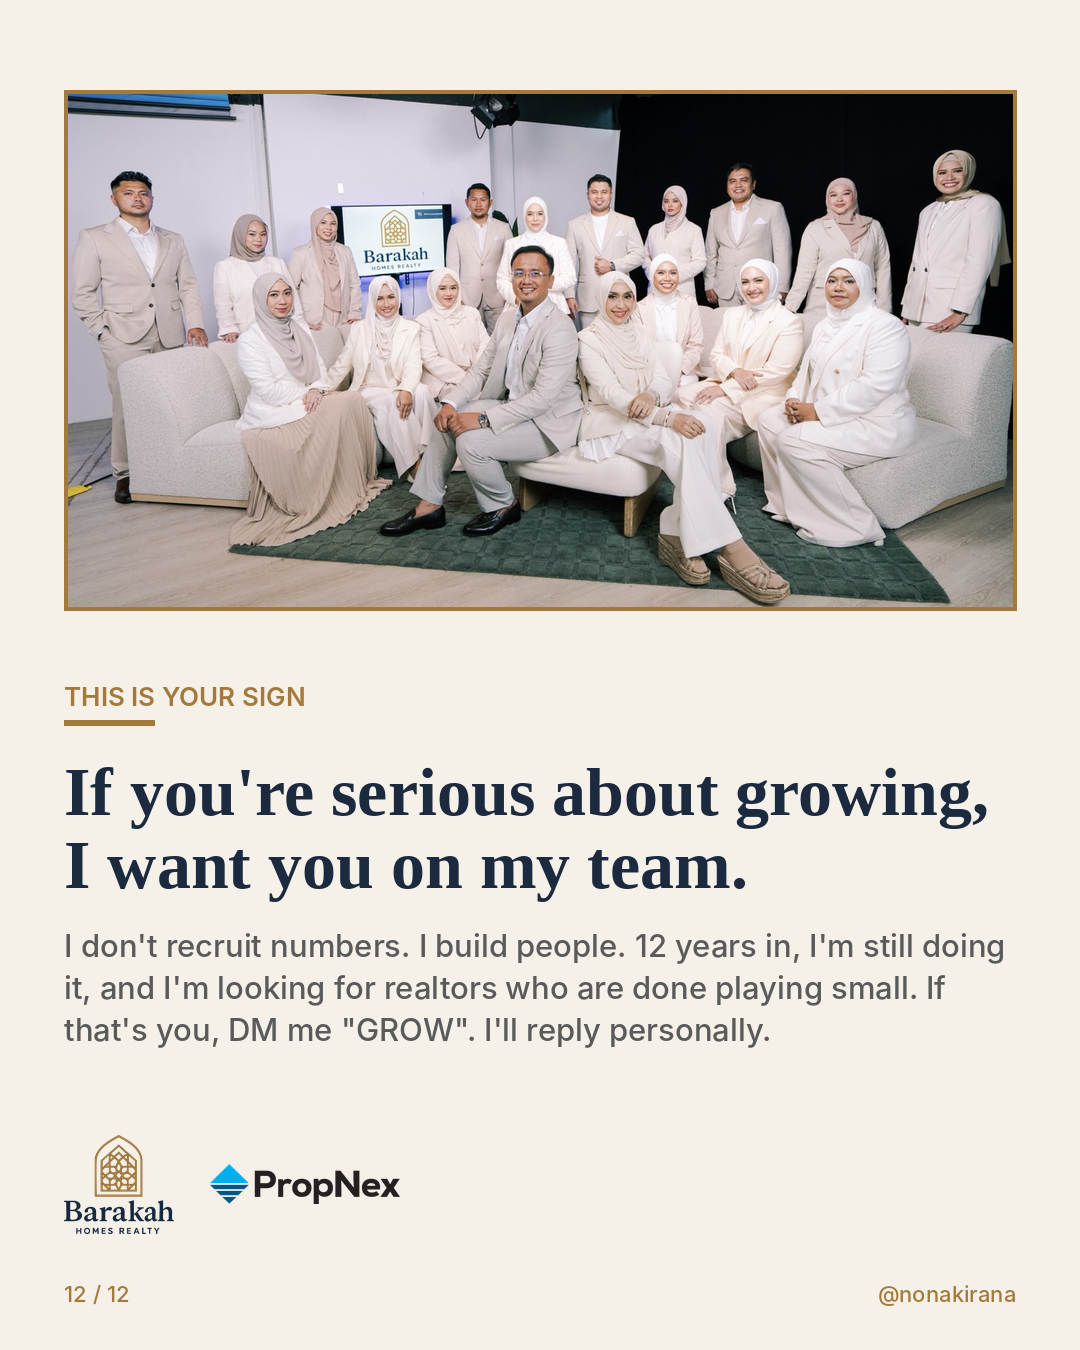
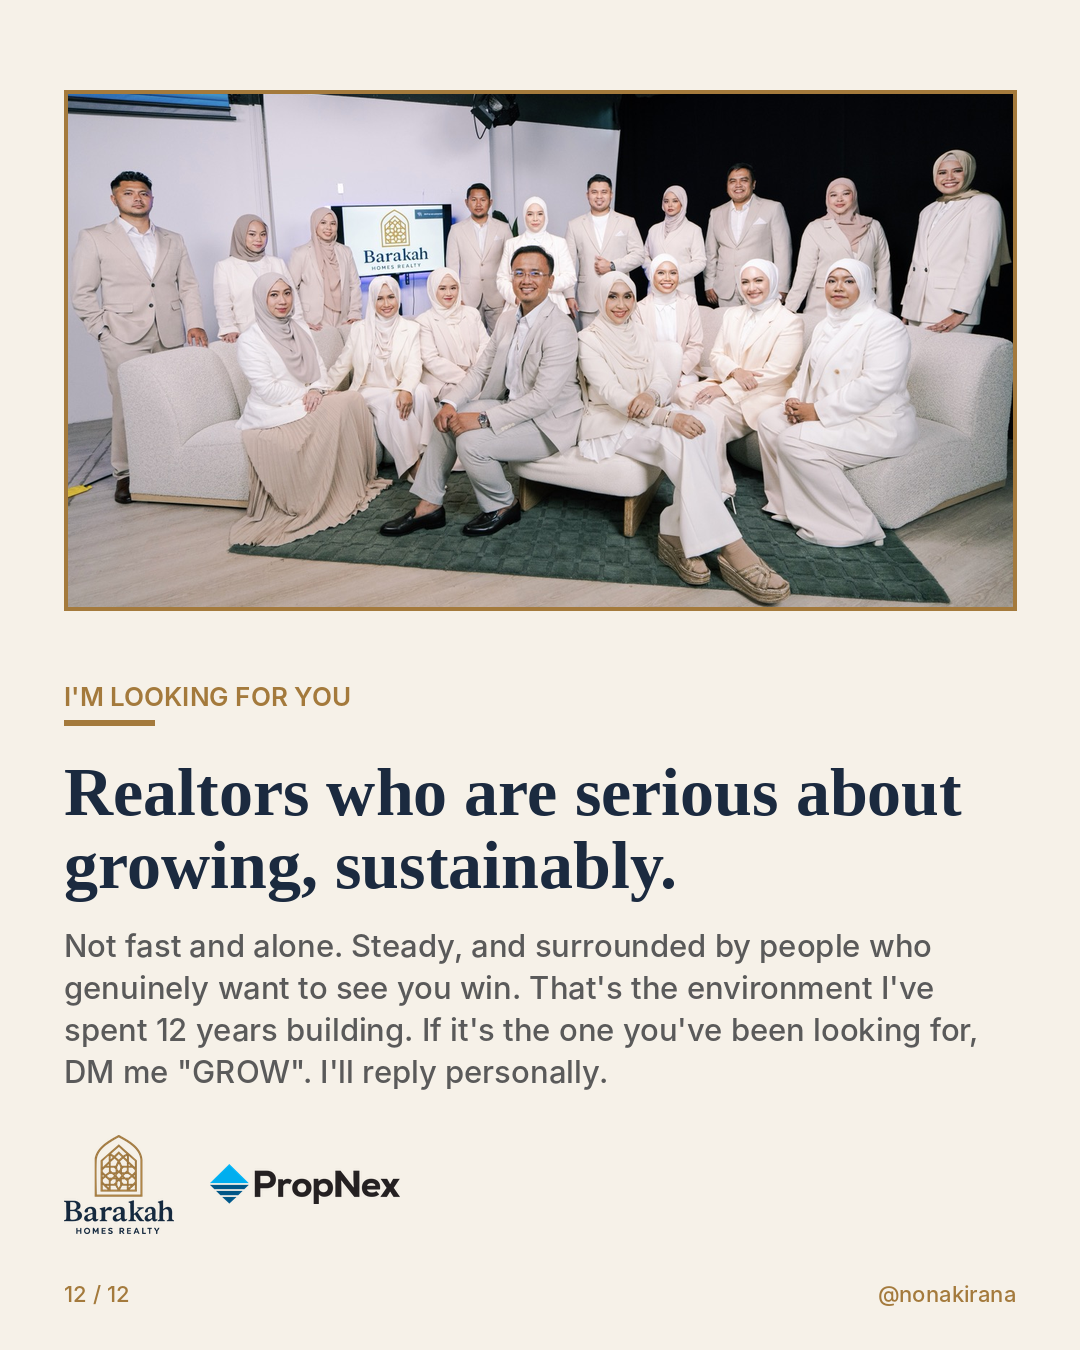
Closing slide: realtors serious about growing sustainably with supportive people
Claude-Session: https://claude.ai/code/session_016kRuLdfEYNqBubZ7ARvdxi

Changed region(s): [[0.0611, 0.56, 0.9472, 0.8089], [0.0611, 0.4978, 0.3361, 0.5289]]

diff --git a/recruitment-carousel/make_carousel.py b/recruitment-carousel/make_carousel.py
@@ -262,11 +262,11 @@ ph = cover_crop(load("barakah-team.jpg"), W - 128, 520, (0.5, 0.5))
 img.paste(ph, (64, 90))
 d.rectangle((64, 90, W - 64, 610), outline=GOLD, width=4)
 y = 680
-d.text((64, y), "THIS IS YOUR SIGN", font=font(SANS_B, 26), fill=GOLD); y += 40
+d.text((64, y), "I'M LOOKING FOR YOU", font=font(SANS_B, 26), fill=GOLD); y += 40
 gold_rule(d, 64, y); y += 34
-y = draw_par(d, "If you're serious about growing, I want you on my team.", font(SERIF, 68), 64, y, W - 128, NAVY, lh=1.08)
+y = draw_par(d, "Realtors who are serious about growing, sustainably.", font(SERIF, 68), 64, y, W - 128, NAVY, lh=1.08)
 y += 26
-y = draw_par(d, "I don't recruit numbers. I build people. 12 years in, I'm still doing it, and I'm looking for realtors who are done playing small. If that's you, DM me \"GROW\". I'll reply personally.",
+y = draw_par(d, "Not fast and alone. Steady, and surrounded by people who genuinely want to see you win. That's the environment I've spent 12 years building. If it's the one you've been looking for, DM me \"GROW\". I'll reply personally.",
              font(SANS, 31), 64, y, W - 128, (90, 90, 90), lh=1.35)
 lh = logo(img, "barakah-logo.png", 64, H - 215, 110)
 logo(img, "propnex-logo.png", 64 + 110 + 36, H - 215 + lh // 2 - 20, 190)

diff --git a/recruitment-carousel/caption.md b/recruitment-carousel/caption.md
@@ -19,7 +19,7 @@ Here's the twist. After all the goodbyes, I'm not tired of this. I'm more excite
 
 Still growing. Still recruiting. We are just getting started. 🌱
 
-I don't recruit numbers. I build people. If you're a realtor who's done playing small and wants a team that will push you, back you and tell you the truth, this is your sign. DM me "GROW". I'll reply personally.
+I'm looking for realtors who are serious about growing sustainably. Not fast and alone, but steady, surrounded by people who genuinely want to see you win. If that's the environment you've been looking for, DM me "GROW". I'll reply personally.
 
 #BarakahHomes #PropNex #RealEstateSingapore #PropertyAgentSG #RecruitingAgents #TeamLeader #12Years #GrowWithUs #NonaKirana #AbangAbangEjenRumah #KakakKakakEjenRumah
 

diff --git a/recruitment-carousel/README.md b/recruitment-carousel/README.md
@@ -22,6 +22,6 @@ Instagram carousel for Nona Kirana / Barakah Homes on recruitment and team-build
 | 09 | Lesson 05: listen and agree, even before you understand | PropNex lobby |
 | 10 | Lesson 06: lead by example, with integrity | — |
 | 11 | Today: Barakah Homes at PropNex | PropNex office |
-| 12 | CTA: if you're serious about growing, I want you on my team. DM "GROW" | Barakah Homes team portrait |
+| 12 | CTA: realtors serious about growing sustainably with supportive people. DM "GROW" | Barakah Homes team portrait |
 
 To change wording, edit the strings in `make_carousel.py` and re-run it.
